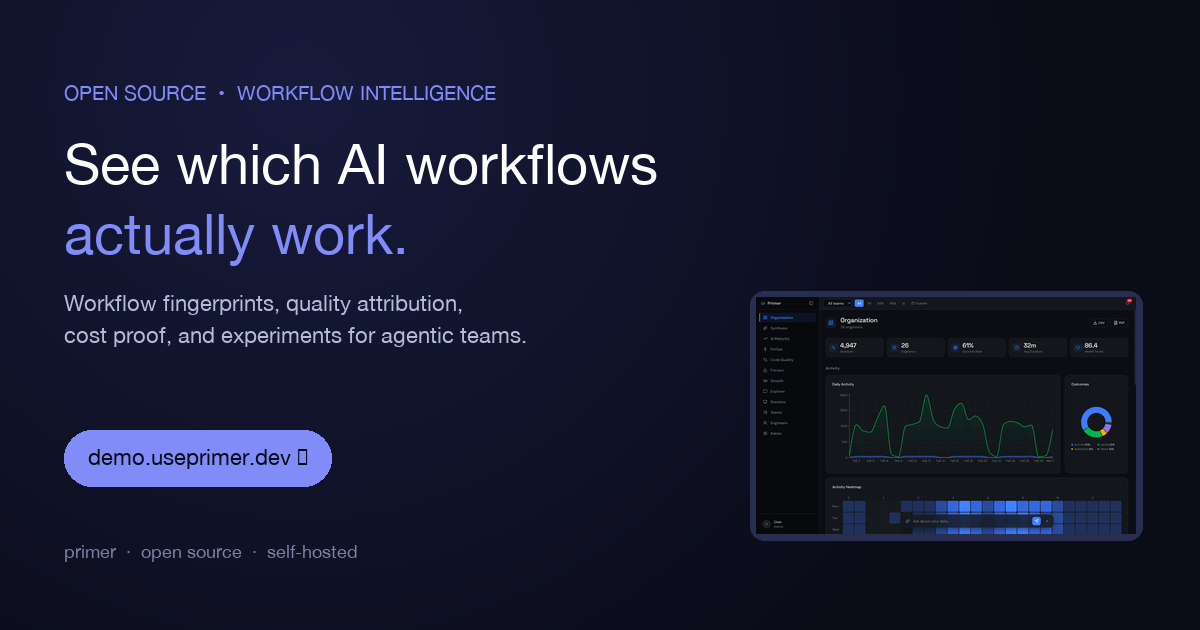
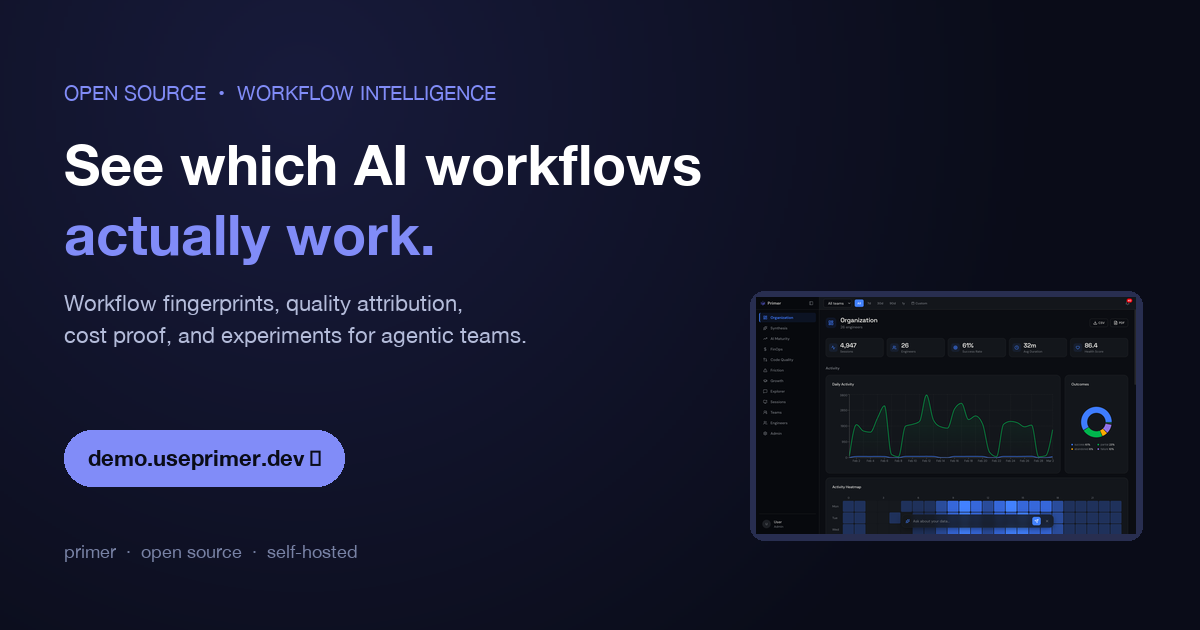
fix: actually load bold font weight in OG image generator
Bugbot caught that the _font(weight='bold') branches were identical
and Pillow's truetype() defaults to index 0 of .ttc collections, so
HelveticaNeue.ttc always loaded the regular face. Headlines and CTA
pill rendered in regular weight.

Fix by enumerating .ttc indices and selecting the first face whose
PostScript style name contains 'bold' (excluding italic). For
HelveticaNeue.ttc that's index 1.

Regenerated og-image.png — headline and CTA now render properly bold.

Changed region(s): [[0.0617, 0.2111, 0.5858, 0.3016], [0.0617, 0.3317, 0.37, 0.4222], [0.0617, 0.6635, 0.3083, 0.7841]]

diff --git a/scripts/generate_og_image.py b/scripts/generate_og_image.py
@@ -33,24 +33,36 @@ HEIGHT = 630
 
 
 def _font(size: int, weight: str = "regular") -> ImageFont.FreeTypeFont:
-    """Try several mac system fonts; fall back to default."""
-    candidates = []
-    if weight == "bold":
-        candidates += [
-            "/System/Library/Fonts/HelveticaNeue.ttc",
-            "/System/Library/Fonts/Helvetica.ttc",
-        ]
-    else:
-        candidates += [
-            "/System/Library/Fonts/HelveticaNeue.ttc",
-            "/System/Library/Fonts/Helvetica.ttc",
-        ]
+    """Load a system font, honoring the requested weight.
+
+    .ttc TrueType Collections pack multiple faces under different indices
+    and Pillow's truetype() defaults to index 0 (regular). To actually get
+    a bold face we have to enumerate indices and pick the one whose
+    PostScript name contains 'Bold'.
+    """
+    candidates = [
+        "/System/Library/Fonts/HelveticaNeue.ttc",
+        "/System/Library/Fonts/Helvetica.ttc",
+        "/System/Library/Fonts/Supplemental/Arial.ttf",
+    ]
     for path in candidates:
-        if Path(path).exists():
-            try:
-                return ImageFont.truetype(path, size)
-            except OSError:
-                continue
+        if not Path(path).exists():
+            continue
+        if weight == "bold":
+            for index in range(12):
+                try:
+                    font = ImageFont.truetype(path, size, index=index)
+                except OSError:
+                    break
+                family, style = font.getname()
+                if "bold" in (style or "").lower() and "italic" not in (style or "").lower():
+                    return font
+            # No bold face found in this collection — fall through to next
+            continue
+        try:
+            return ImageFont.truetype(path, size, index=0)
+        except OSError:
+            continue
     return ImageFont.load_default()
 
 